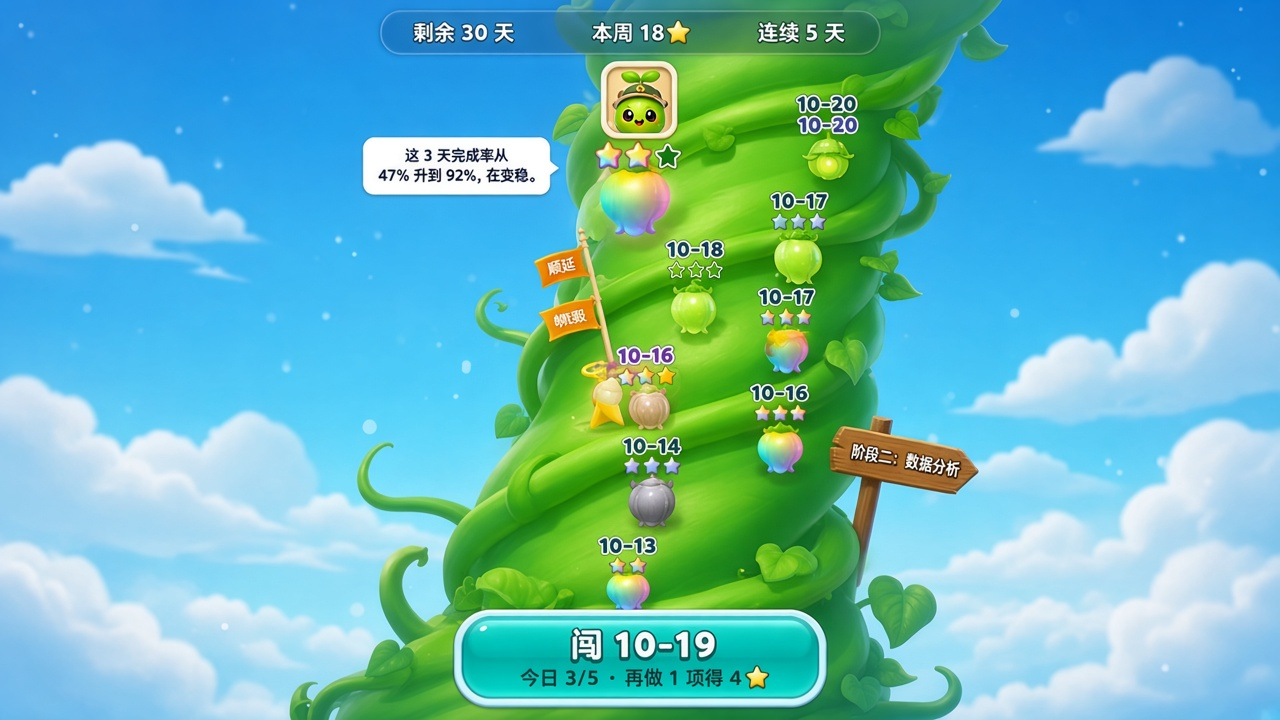
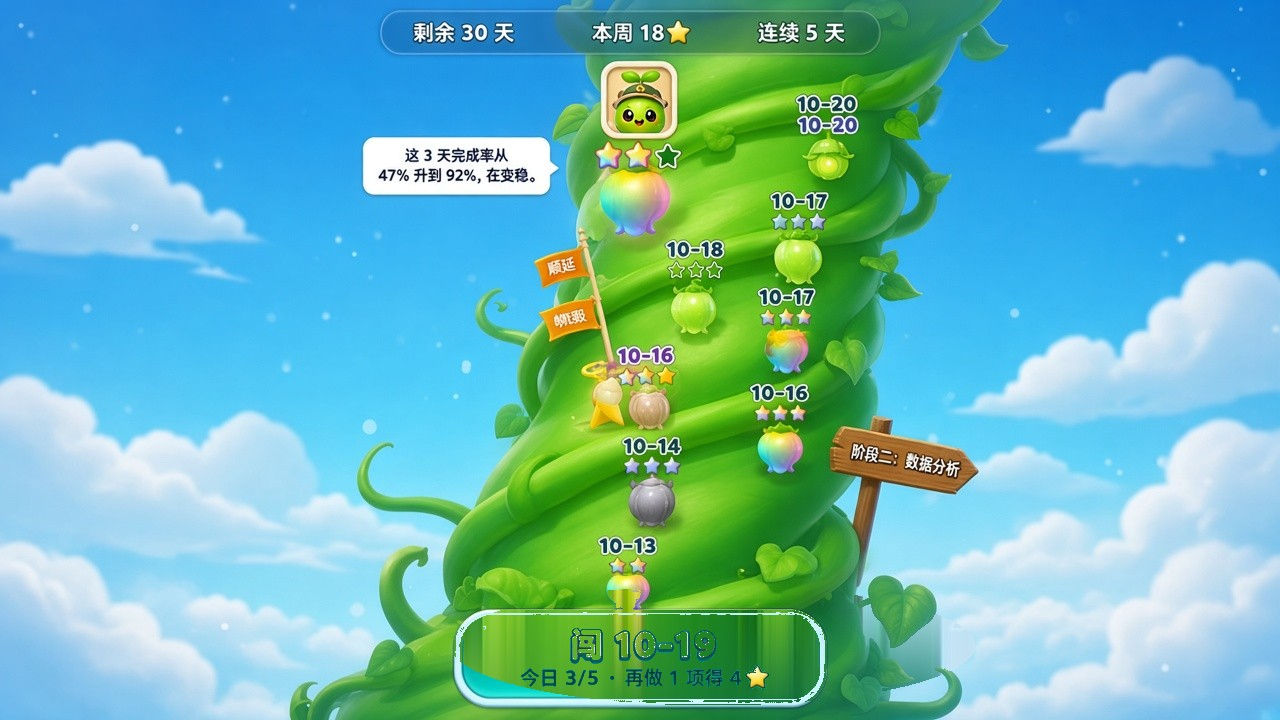
feat(journey): 底部闯关按钮改成玻璃胶囊
去掉效果图里多出来的那颗底部按钮，只留一颗。文案仍是闯 MM-DD，底改成红橙玻璃渐变。

Changed region(s): [[0.3438, 0.7944, 0.7812, 1.0]]

diff --git a/frontend/src/components/journey/journey.css b/frontend/src/components/journey/journey.css
@@ -13,6 +13,47 @@
   opacity: 0.85;
 }
 
+.journey-glass {
+  position: relative;
+  isolation: isolate;
+  overflow: hidden;
+  border: none;
+  border-radius: 999px;
+  background: linear-gradient(90deg, #ef4444 0%, #f97316 100%);
+  color: white;
+  text-shadow: 0 1px 0 rgba(120, 30, 0, 0.28);
+  box-shadow:
+    inset 0 1px 0 rgba(255, 255, 255, 0.7),
+    0 10px 26px rgba(239, 68, 68, 0.42);
+}
+
+.journey-glass::before {
+  content: '';
+  position: absolute;
+  z-index: 0;
+  left: 3%;
+  top: 8%;
+  width: 94%;
+  height: 46%;
+  border-radius: 999px;
+  background: linear-gradient(180deg, rgba(255, 255, 255, 0.55), rgba(255, 220, 200, 0.08));
+  pointer-events: none;
+}
+
+.journey-glass > span {
+  position: relative;
+  z-index: 1;
+}
+
+.journey-glass:hover {
+  filter: saturate(1.15);
+}
+
+.journey-glass:active {
+  filter: saturate(1.3);
+  transform: translateY(1px);
+}
+
 .journey-pill {
   border: 6px solid #f4fbff;
   border-radius: 999px;

diff --git a/frontend/src/pages/JourneyPage.tsx b/frontend/src/pages/JourneyPage.tsx
@@ -285,7 +285,7 @@ function JourneyPage({ onBack, onNavigate }: JourneyPageProps) {
       </header>
       {data?.plan ? (
         <footer className="pointer-events-none absolute inset-x-0 bottom-0 z-20 p-3 pb-[max(12px,env(safe-area-inset-bottom))]">
-          <button type="button" className="journey-pill pointer-events-auto mx-auto block w-full max-w-lg px-6 py-3" onClick={openRoadmap}>
+          <button type="button" className="journey-glass pointer-events-auto mx-auto block w-full max-w-lg px-8 py-3" onClick={openRoadmap}>
             <span className="block text-2xl font-black tracking-wide">{cta.title}</span>
             <span className="block text-xs font-semibold opacity-90">{cta.subtitle}</span>
           </button>
